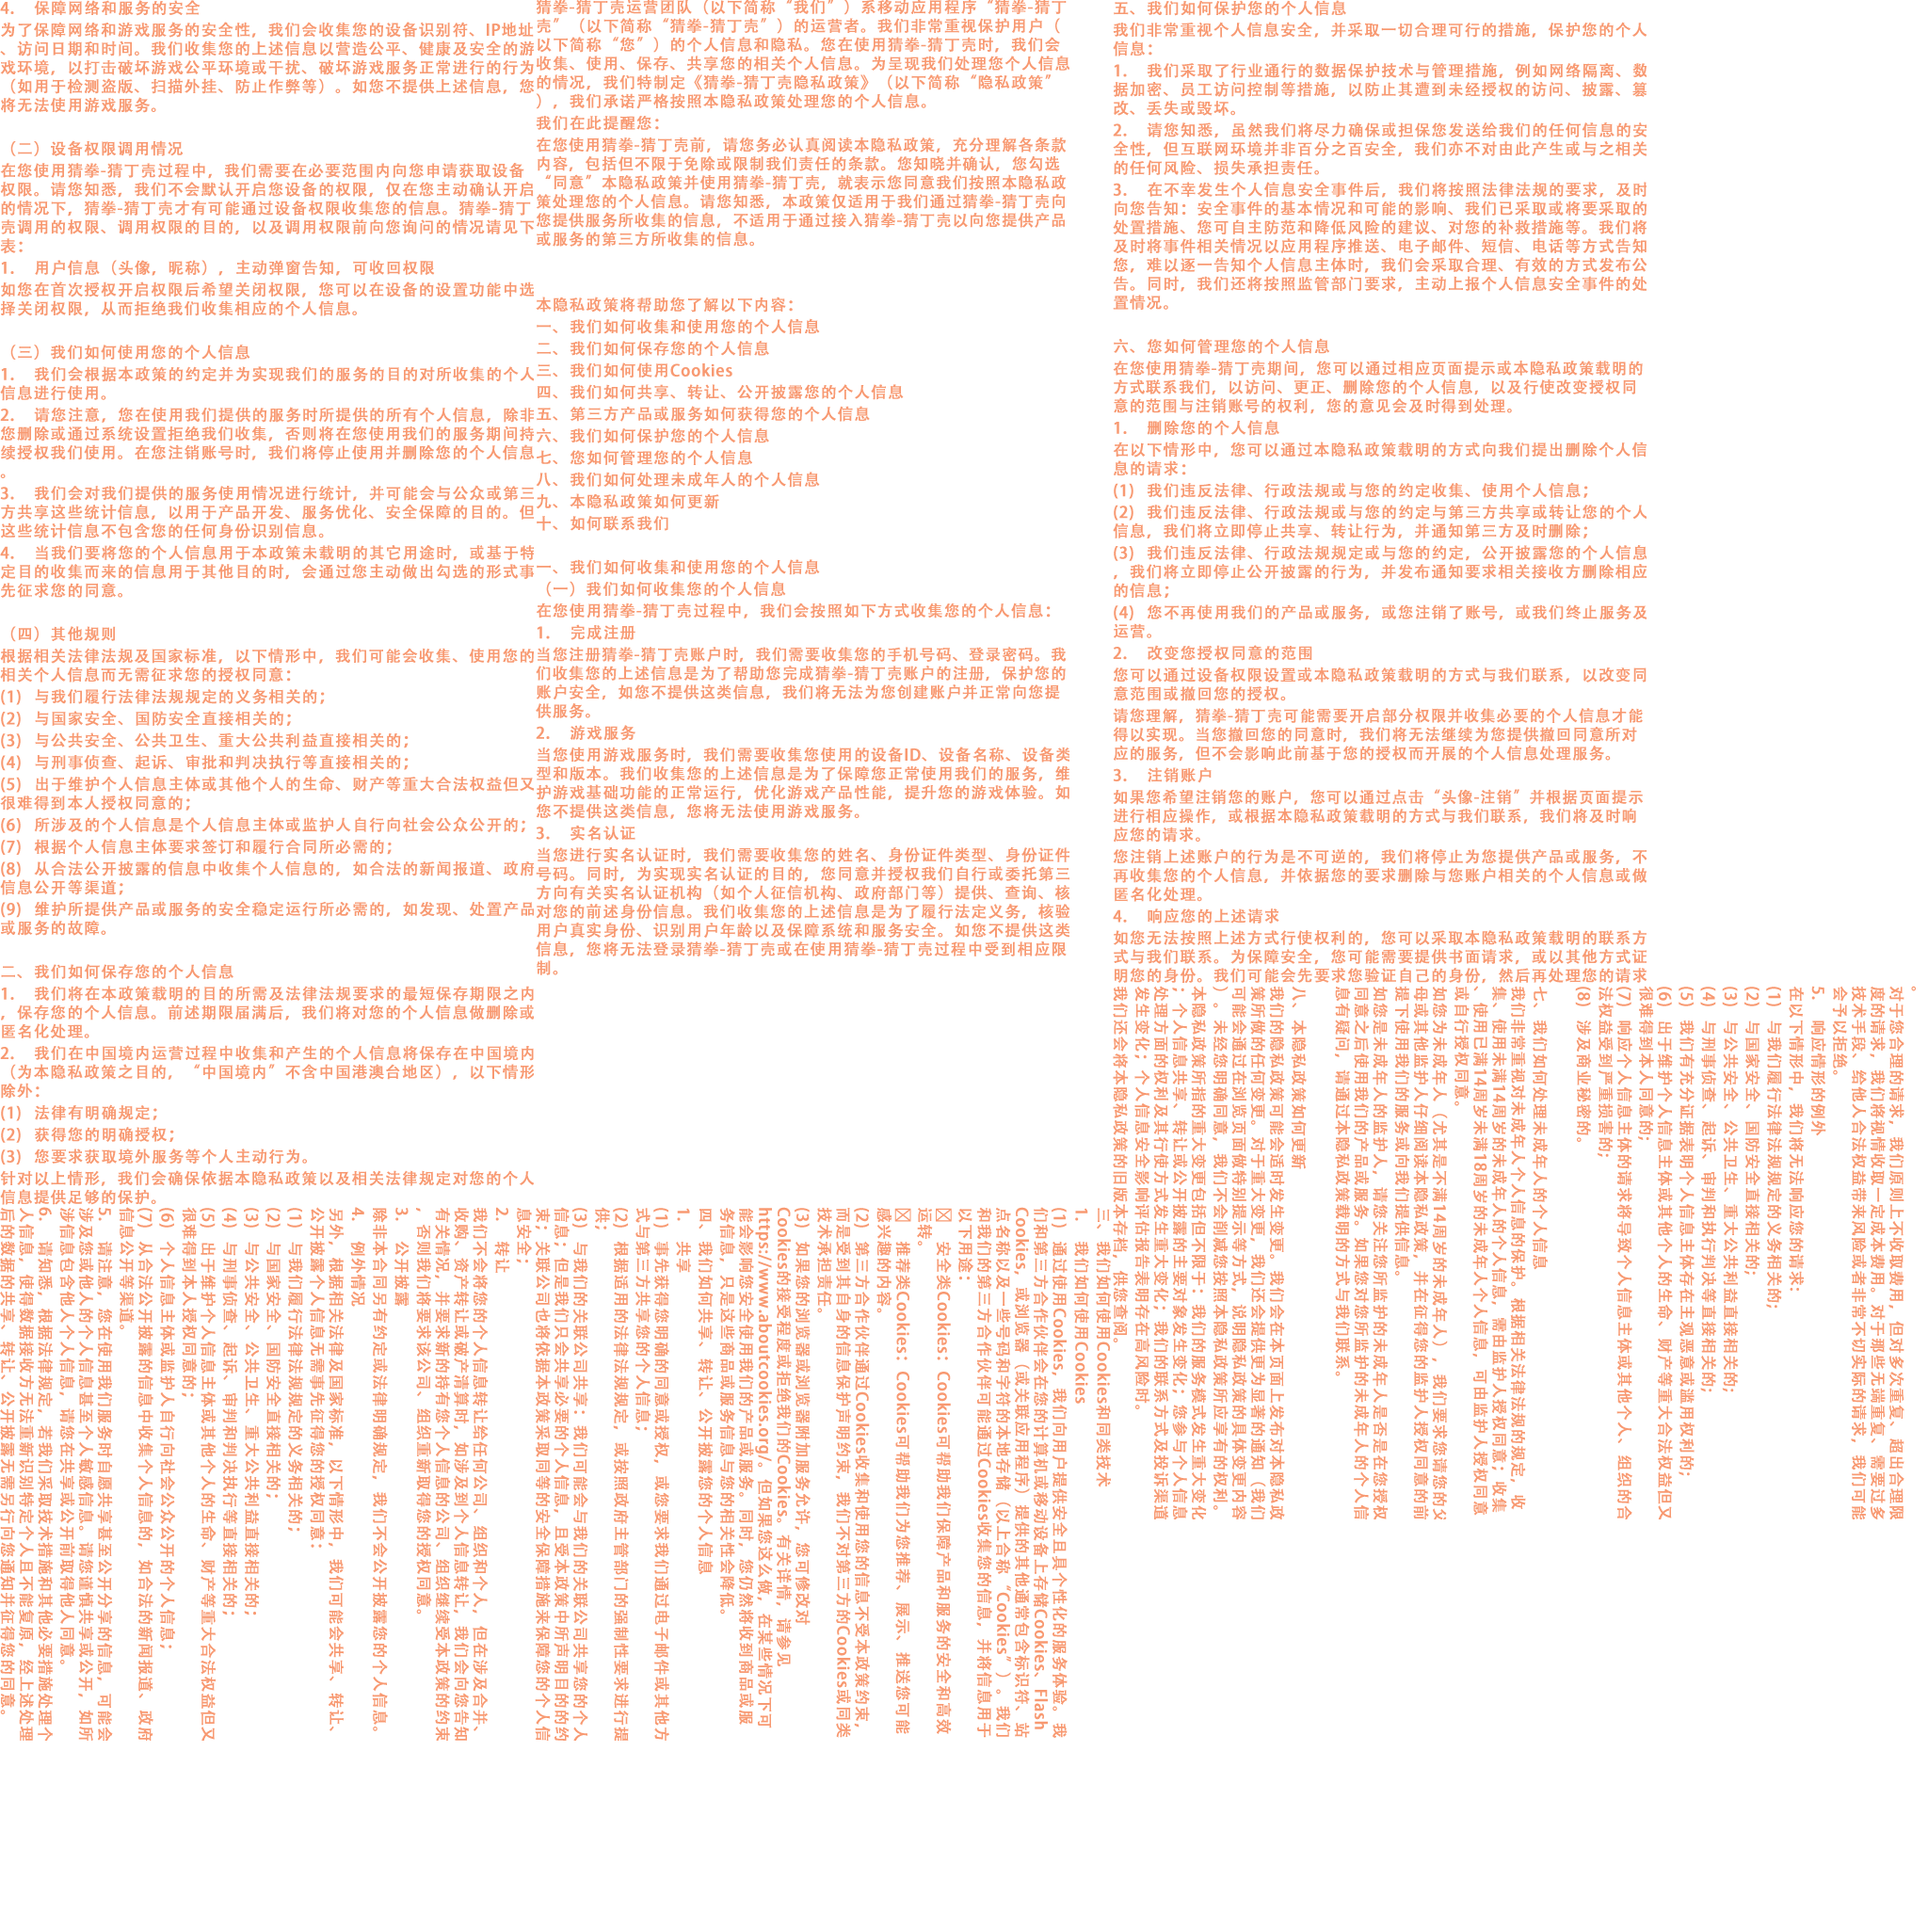
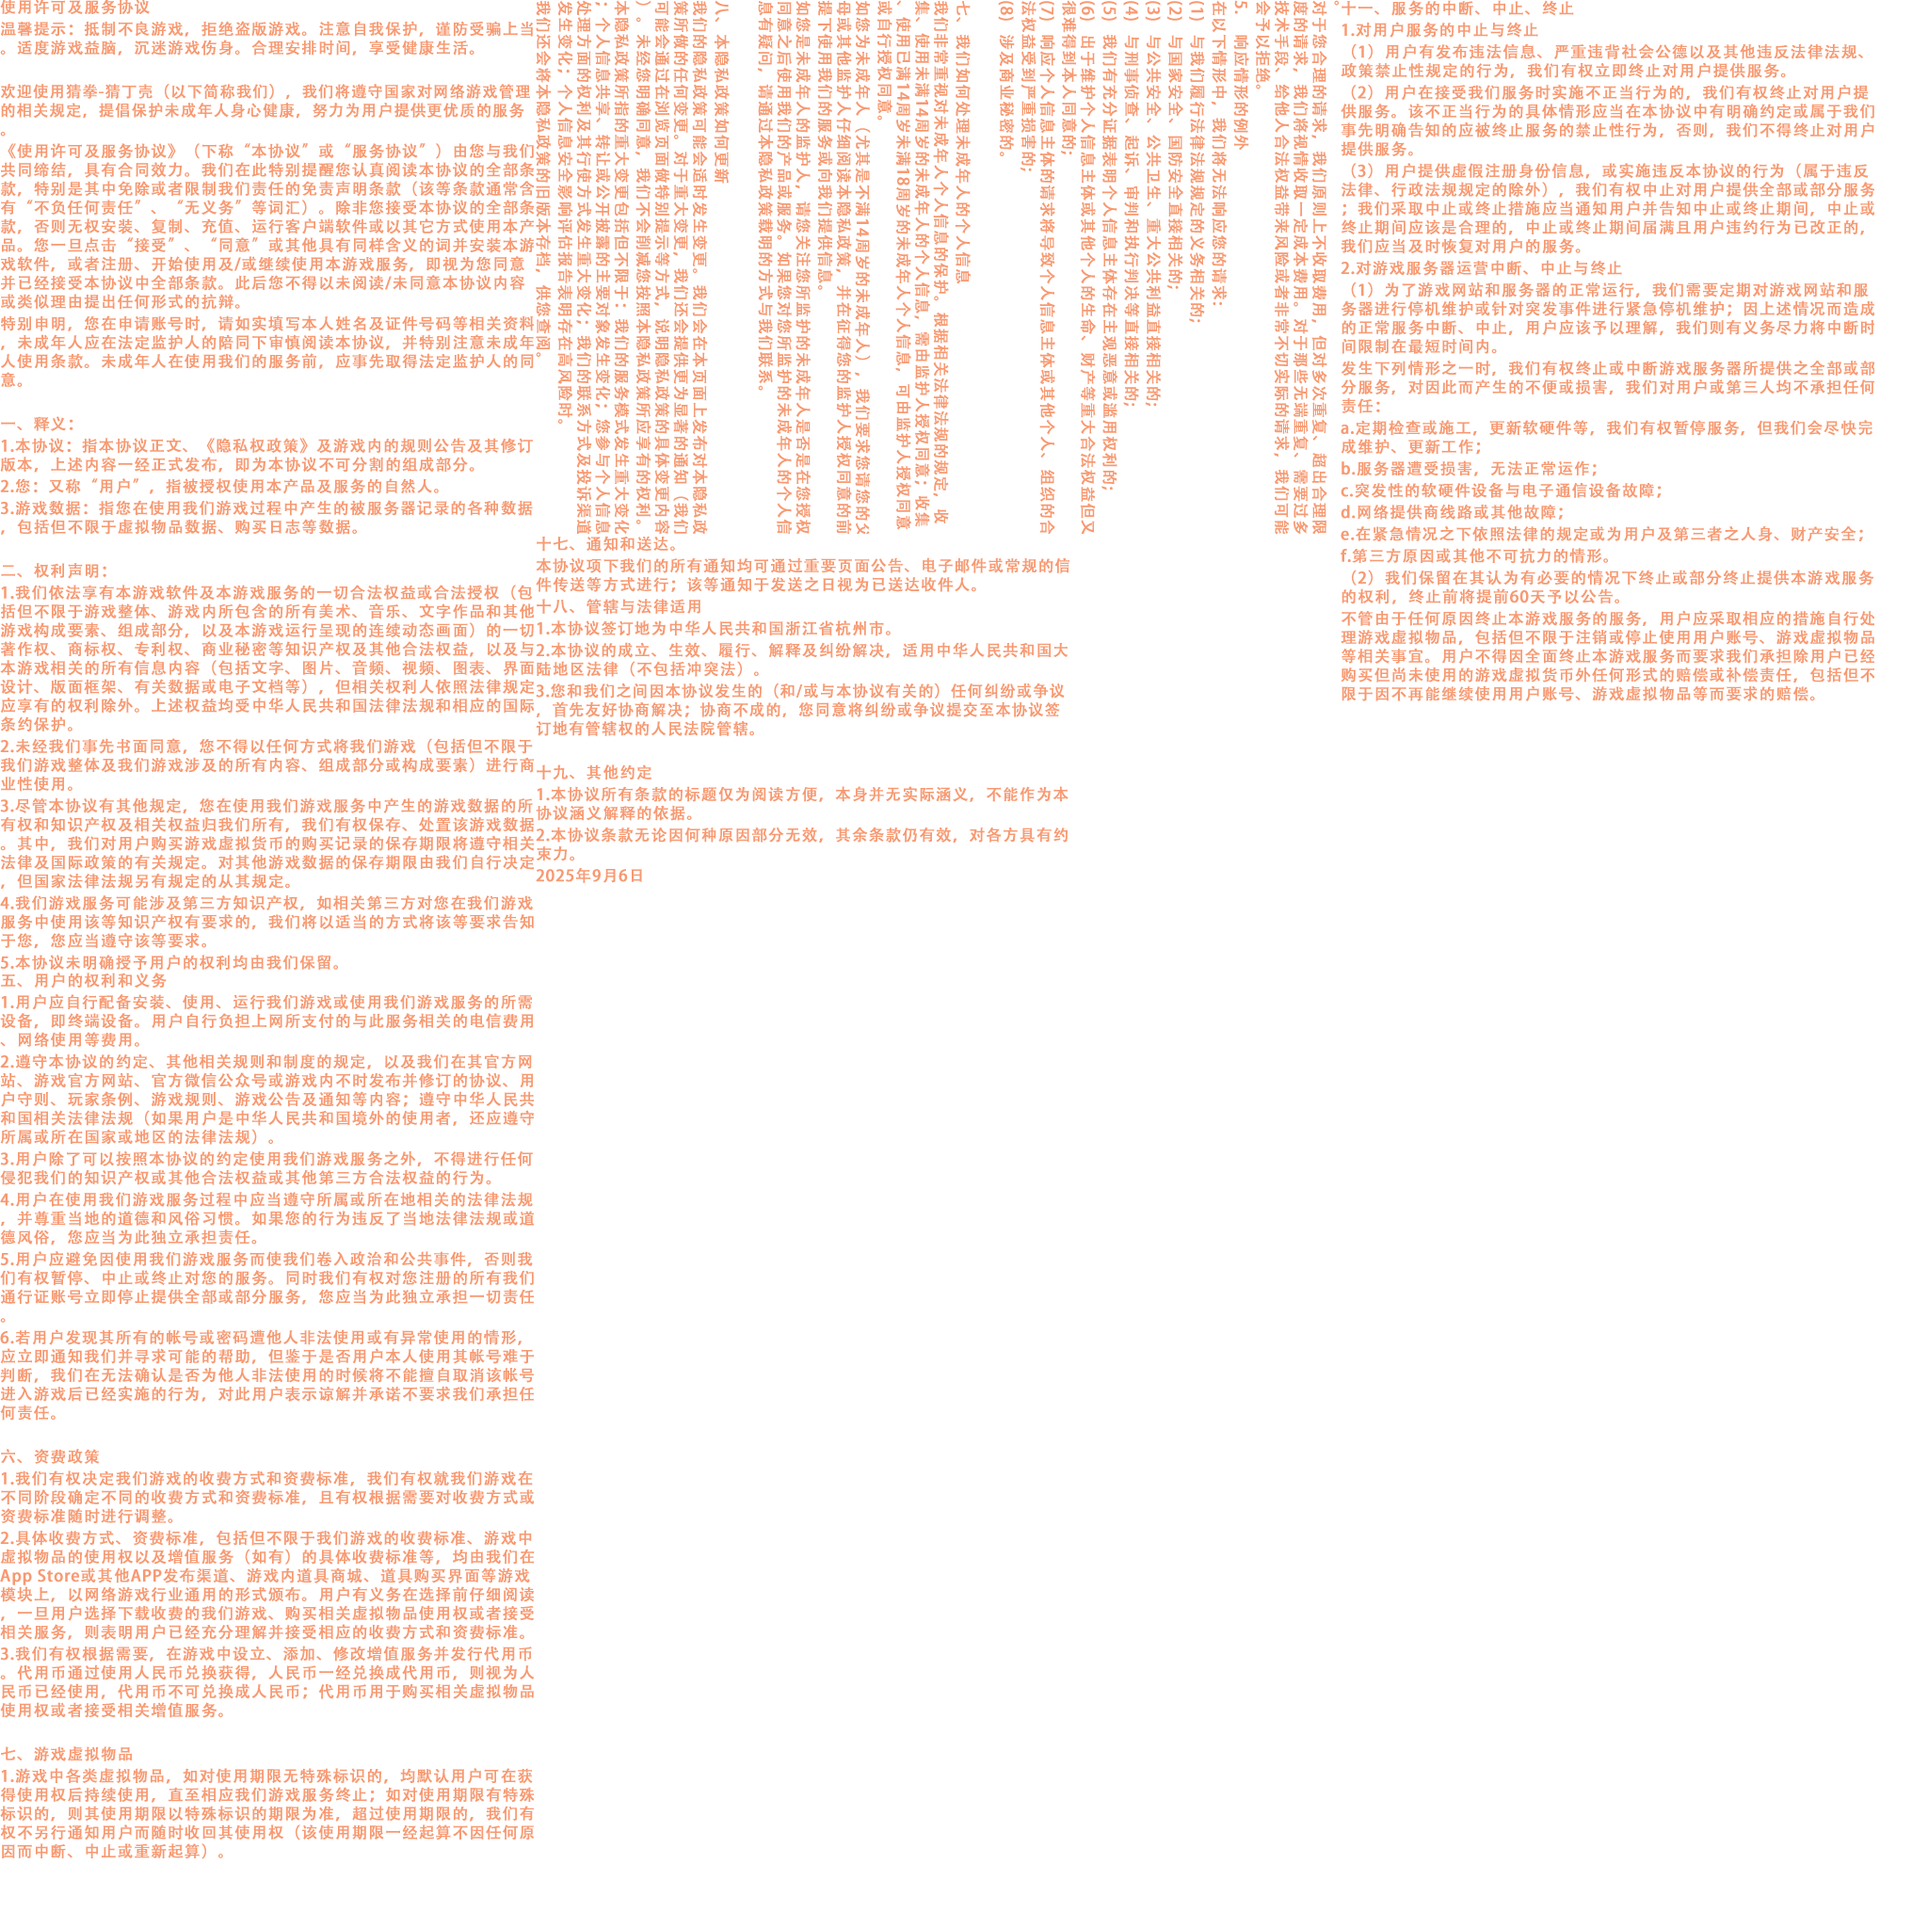
feat(privacy): 添加隐私政策用户协议多页切换功能
- 在PrivacyView.xml中新增隐私政策和用户协议的控制器ctrl_privacy
- 新增用户协议页compUser.xml及相关图片资源
- 在隐私视图中添加两个列表分别绑定隐私政策和用户协议内容
- 更新package.xml，包含新增的用户协议资源和组件
- 修改FGUIPrivacyView.ts，添加ctrl_privacy控制器引用及初始化代码
- 调整UI_GROUP_PRIVACY组件索引以匹配新布局
- 添加新图集资源privacy_atlas0_1.png和privacy_atlas0_2.png及其meta文件

Changed region(s): [[0.0, 0.0, 1.0, 0.9688]]

diff --git a/assets/scripts/fgui/privacy/FGUIPrivacyView.ts b/assets/scripts/fgui/privacy/FGUIPrivacyView.ts
@@ -5,6 +5,7 @@ import * as fgui from "fairygui-cc";
 
 export default class FGUIPrivacyView extends fgui.GComponent {
 
+	public ctrl_privacy:fgui.Controller;
 	public UI_BTN_REFUSE:fgui.GButton;
 	public UI_BTN_AGREE:fgui.GButton;
 	public UI_BTN_PRIVACY:fgui.GButton;
@@ -53,6 +54,7 @@ export default class FGUIPrivacyView extends fgui.GComponent {
 	}
 
 	protected onConstruct():void {
+		this.ctrl_privacy = this.getControllerAt(0);
 		this.UI_BTN_REFUSE = <fgui.GButton>(this.getChildAt(2));
 		this.UI_BTN_REFUSE.onClick(this.onBtnRefuse, this);
 		this.UI_BTN_AGREE = <fgui.GButton>(this.getChildAt(3));
@@ -63,7 +65,7 @@ export default class FGUIPrivacyView extends fgui.GComponent {
 		this.UI_BTN_USER.onClick(this.onBtnUser, this);
 		this.UI_BTN_CLOSE = <fgui.GButton>(this.getChildAt(10));
 		this.UI_BTN_CLOSE.onClick(this.onBtnClose, this);
-		this.UI_GROUP_PRIVACY = <fgui.GGroup>(this.getChildAt(12));
+		this.UI_GROUP_PRIVACY = <fgui.GGroup>(this.getChildAt(13));
 	}
 	onBtnRefuse():void{};
 	onBtnAgree():void{};
